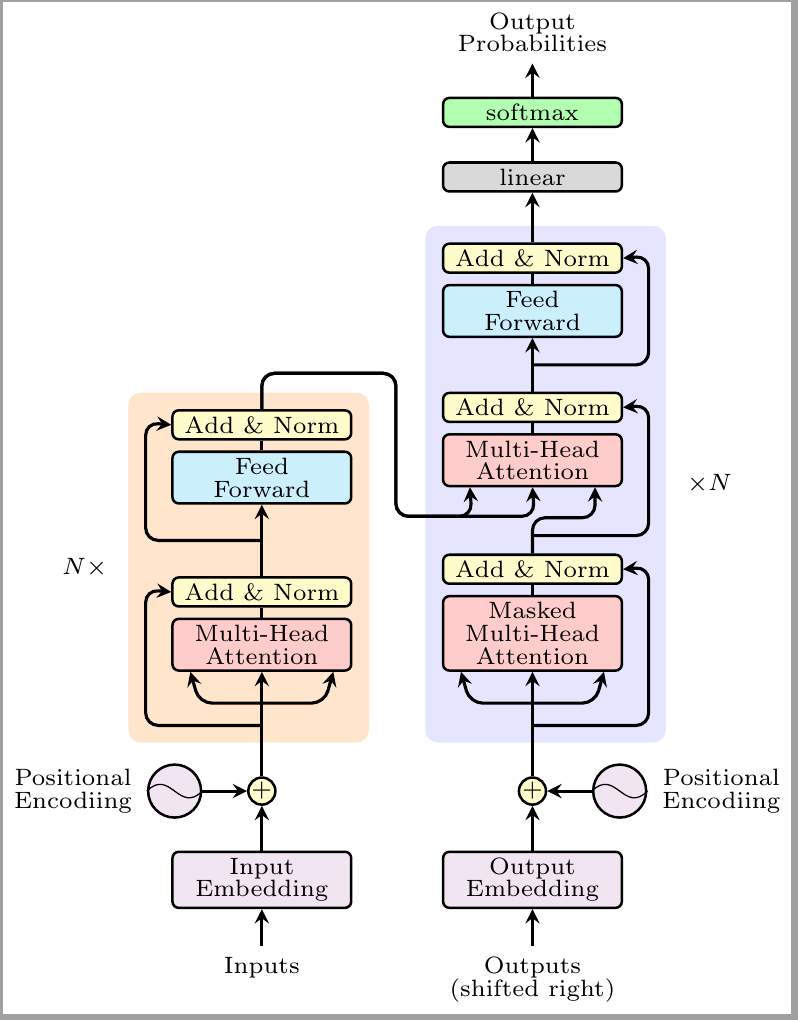
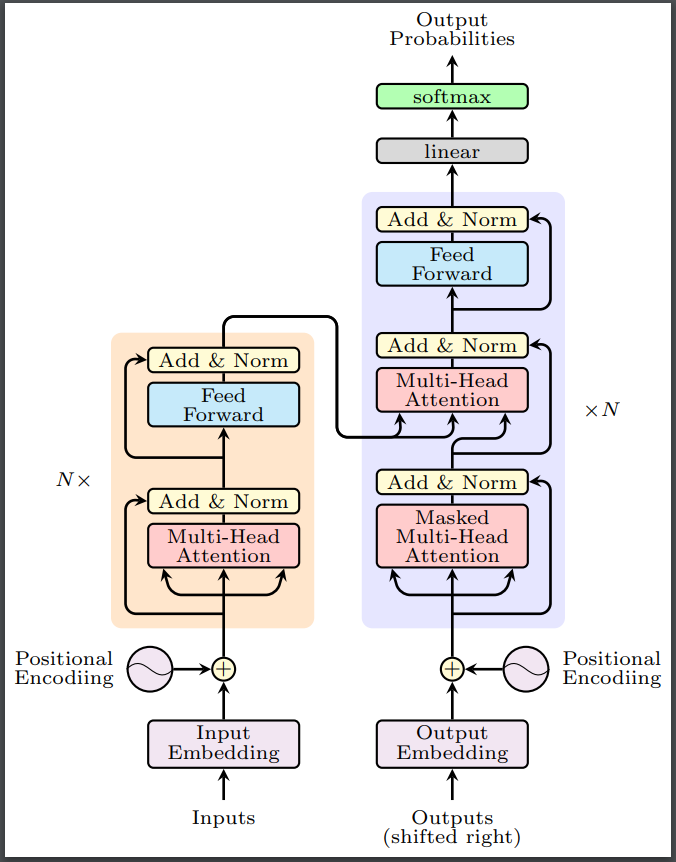
fix address

diff --git a/README.md b/README.md
@@ -1,3 +1,3 @@
 # 展示
 
-![output](https://github.com/dssbxx/awesome-tikz/blob/master/transformer.PNG)
+<img src="https://github.com/dssbxx/awesome-tikz/blob/master/transformer.PNG" width="50%" height="50%">
